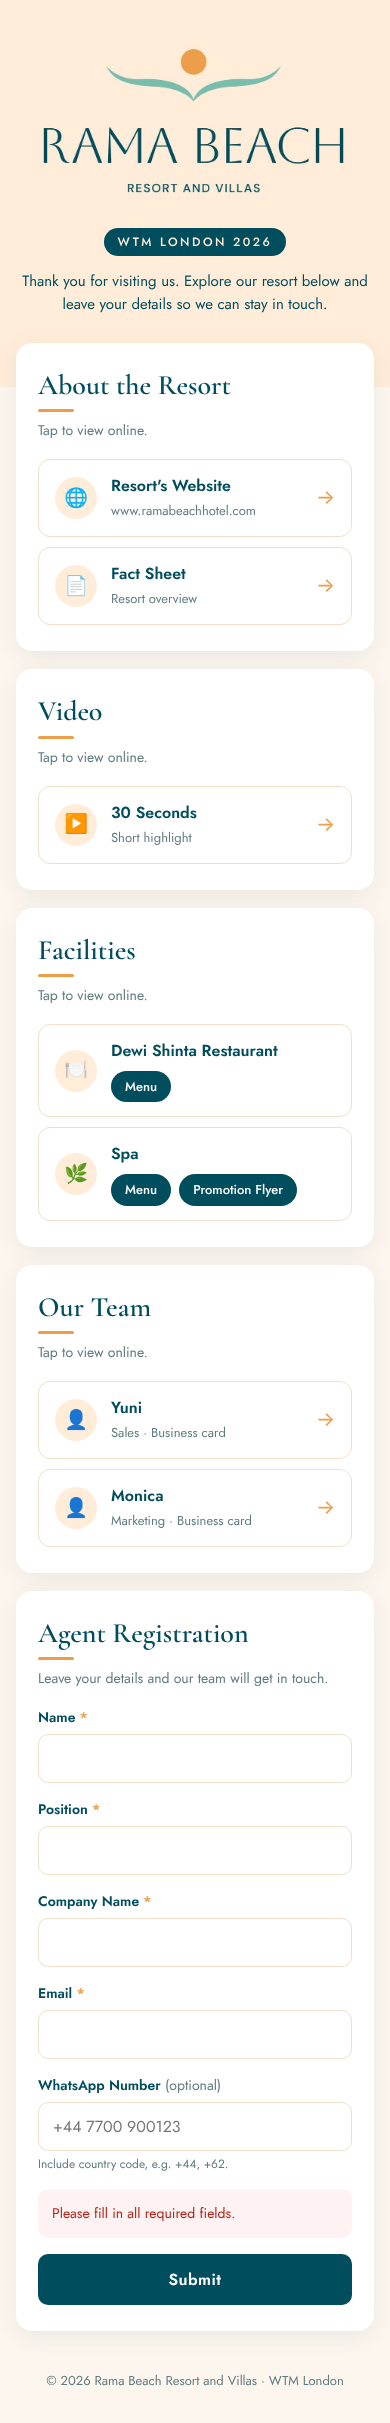
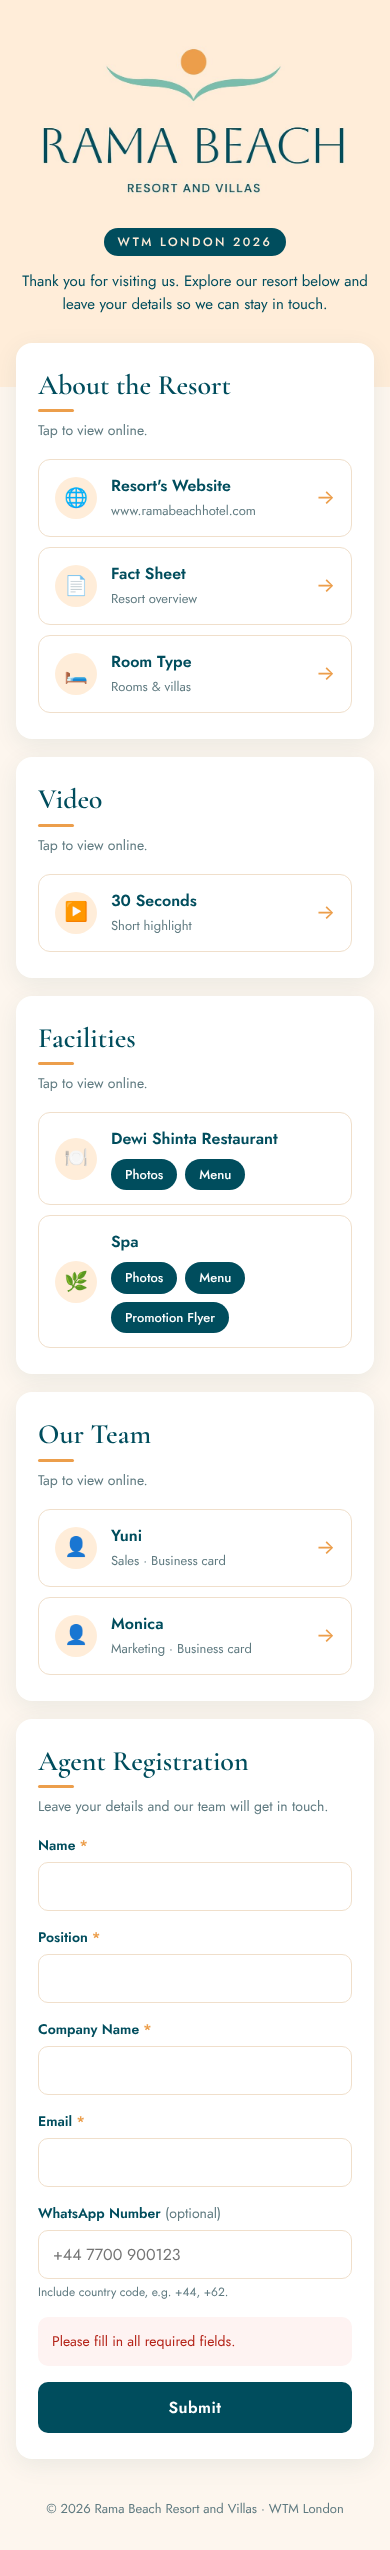
Add room type, restaurant/spa photos and spa flyer links; merge meeting room, gym and tennis court
Claude-Session: https://claude.ai/code/session_01QZYb1otfo5Z6kRTfGHt6UH

diff --git a/index.html b/index.html
@@ -208,7 +208,8 @@
         title: "About the Resort",
         items: [
           { icon: "🌐", title: "Resort's Website", desc: "www.ramabeachhotel.com", url: "https://www.ramabeachhotel.com" },
-          { icon: "📄", title: "Fact Sheet", desc: "Resort overview", url: "https://drive.google.com/file/d/1UX3pMggYdjrSZwq8f7Mxym6KviA768UH/view" }
+          { icon: "📄", title: "Fact Sheet", desc: "Resort overview", url: "https://drive.google.com/file/d/1UX3pMggYdjrSZwq8f7Mxym6KviA768UH/view" },
+          { icon: "🛏", title: "Room Type", desc: "Rooms & villas", url: "https://drive.google.com/drive/folders/1-Fs4QHg939CxLkrSmVh9QctUEI56TK8S" }
         ]
       },
       {
@@ -222,16 +223,15 @@
         title: "Facilities",
         items: [
           { icon: "🍽", title: "Dewi Shinta Restaurant", links: [
-              { label: "Photos", url: "" },
+              { label: "Photos", url: "https://drive.google.com/drive/folders/1eO3j9iAiE7RFzoASnENYZXSc9vUDTa9a" },
               { label: "Menu",   url: "https://drive.google.com/file/d/1i0lSYF2n9cgfiWhr6vT7esCdqaahlzkA/view" }
           ]},
           { icon: "🌿", title: "Spa", links: [
-              { label: "Photos",          url: "" },
+              { label: "Photos",          url: "https://drive.google.com/drive/folders/1xu7r3AK874c98CYzgi2HUXcBcwXFtWw7" },
               { label: "Menu",            url: "https://drive.google.com/file/d/1q0rR0PPYxn9U0lsgAF_DOH46DAErE_el/view" },
-              { label: "Promotion Flyer", url: "https://drive.google.com/file/d/1q0rR0PPYxn9U0lsgAF_DOH46DAErE_el/view" }
+              { label: "Promotion Flyer", url: "https://drive.google.com/file/d/1sD1gJ2WAK-Ejz8k5HFJwZ7uCIdcYiwHz/view" }
           ]},
-          { icon: "🎾", title: "Tennis Court", desc: "Photos", url: "" },
-          { icon: "🏛", title: "Meeting Room", desc: "Photos", url: "" }
+          { icon: "🏛", title: "Meeting Room, Gym & Tennis Court", desc: "Photos", url: "" }
         ]
       },
       {

diff --git a/README.md b/README.md
@@ -3,9 +3,9 @@
 Website satu halaman:
 - Logo & warna brand Rama Beach Resort and Villas
 - Tombol link (dibuka online, tanpa download) ke Google Drive:
-  - **About the Resort**: Resort's Website, Fact Sheet
+  - **About the Resort**: Resort's Website, Fact Sheet, Room Type
   - **Video**: 30 Seconds, 2 Minutes
-  - **Facilities**: Dewi Shinta Restaurant (Photos, Menu), Spa (Photos, Menu, Promotion Flyer), Tennis Court, Meeting Room
+  - **Facilities**: Dewi Shinta Restaurant (Photos, Menu), Spa (Photos, Menu, Promotion Flyer), Meeting Room, Gym & Tennis Court
   - **Our Team**: kartu nama Yuni – Sales, Monica – Marketing
 - Form registrasi agent: Name, Position, Company Name, Email (wajib), WhatsApp Number (opsional) → otomatis masuk ke **Google Sheet**
 
